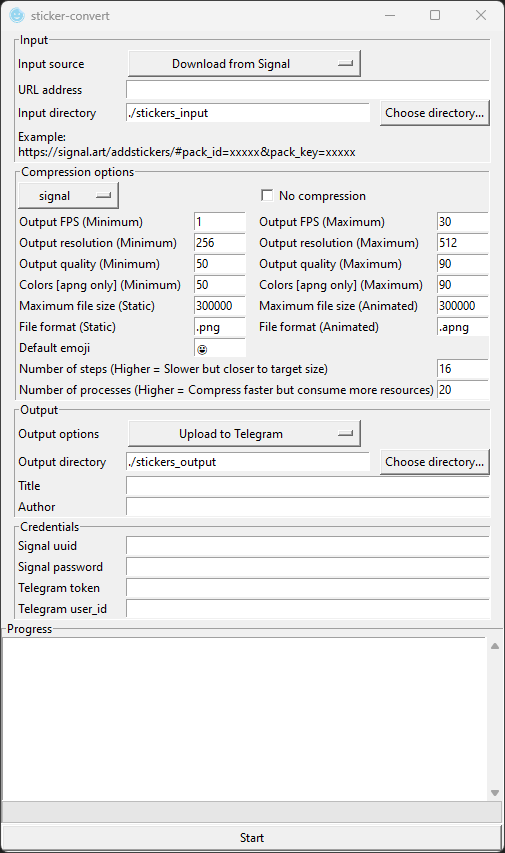
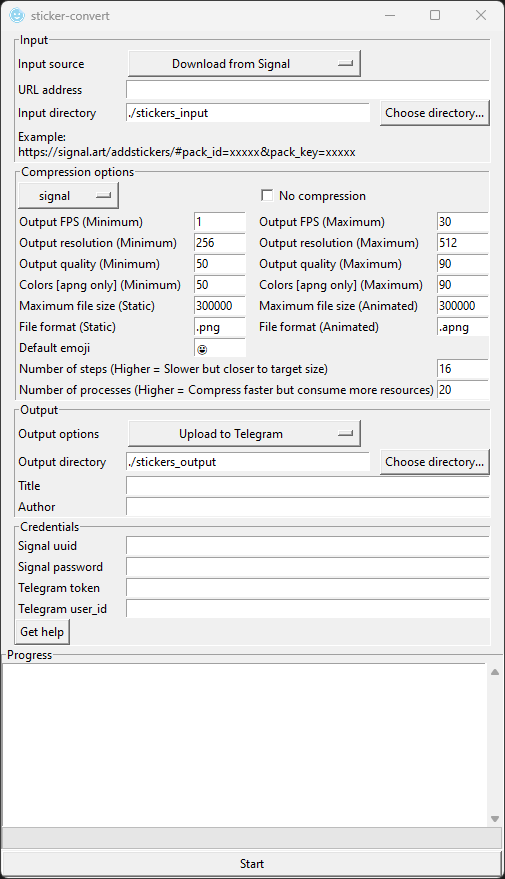
- Add Get help in GUI - Tidying up README - Changing appicon - Update screenshot

Changed region(s): [[0.0, 0.0, 1.0, 0.762], [0.2673, 0.6706, 0.9505, 0.7011], [0.4752, 0.9754, 0.505, 1.0]]

diff --git a/sticker_convert/gui.py b/sticker_convert/gui.py
@@ -6,6 +6,7 @@ import sys
 import shutil
 import multiprocessing
 from threading import Thread
+import webbrowser
 from utils.converter import StickerConvert
 from utils.format_verify import FormatVerify
 from downloaders.download_line import DownloadLine
@@ -250,6 +251,8 @@ class GUI:
         self.telegram_userid_var = StringVar(self.root)
         self.telegram_userid_entry = Entry(self.frame_cred, textvariable=self.telegram_userid_var, width=60)
 
+        self.cred_help = Button(self.frame_cred, text='Get help', command=self.callback_cred_help)
+
         self.signal_uuid_lbl.grid(column=0, row=0, sticky='w')
         self.signal_uuid_entry.grid(column=1, row=0, columnspan=2, sticky='w')
         self.signal_password_lbl.grid(column=0, row=1, sticky='w')
@@ -258,6 +261,7 @@ class GUI:
         self.telegram_token_entry.grid(column=1, row=2, columnspan=2, sticky='w')
         self.telegram_userid_lbl.grid(column=0, row=3, sticky='w')
         self.telegram_userid_entry.grid(column=1, row=3, columnspan=2, sticky='w')
+        self.cred_help.grid(column=0, row=4, columnspan=2, sticky='w')
 
         # Progress frame
         self.progress_box = scrolledtext.ScrolledText(self.frame_progress, width=60, height=10, wrap='word')
@@ -378,6 +382,9 @@ class GUI:
         
     def callback_update_progress_bar(self, *args):
         self.progress_bar['value'] += 100 / self.items
+    
+    def callback_cred_help(self, *args):
+        webbrowser.open('https://github.com/laggykiller/sticker-convert#faq')
 
     def update_progress_box(self, message):
         self.progress_box.config(state='normal')

diff --git a/README.md b/README.md
@@ -1,17 +1,28 @@
 # sticker-convert
-A python script for creating, downloading, converting+compressing and uploading stickers from multiple instant messaging applications.
+![sticker_convert/icon/appicon.png](sticker_convert/icon/appicon.png)
+- A python script for creating, downloading, converting+compressing and uploading stickers from multiple instant messaging applications.
+- With GUI and CLI that runs on Windows, MacOS and Linux
+- Currently supports Signal, Telegram, WhatsApp (Create .wastickers), Line (Download only), Kakao (Download only)
+- Supports static and animated stickers, with transparency support
 
-With GUI and CLI that runs on Windows, MacOS and Linux
+## Downloads
+- [Pre-compiled releases](https://github.com/laggykiller/sticker-convert/releases) for Windows and MacOS. (Unzip the downloaded file and run `sticker-convert`)
+- [Docker image](https://hub.docker.com/r/laggykiller/sticker-convert) for Linux version, which could be used for running CLI.
+- [Try in Google Colab without downloading](https://colab.research.google.com/github/laggykiller/sticker-convert/blob/master/sticker_convert_colab.ipynb) (Requires Google account), which runs the code on Google server and get the result from Google Drive. However, it maybe slower than running on your computer.
 
-[Pre-compiled releases available](https://github.com/laggykiller/sticker-convert/releases) for Windows and MacOS.
-
-[Docker image is available](https://hub.docker.com/r/laggykiller/sticker-convert) for Linux version, which could be used for running CLI
-
-You may [try this repo out in Google Colab](https://colab.research.google.com/github/laggykiller/sticker-convert/blob/master/sticker_convert_colab.ipynb) (Requires Google account), which you can run the code on cloud (without downloading) and get the result from Google Drive. However, it maybe slower than running on your computer.
-
-Currently supports Signal, Telegram, WhatsApp (Create .wastickers), Line (Download only), Kakao (Download only)
-
-Supports static and animated stickers, with transparency support
+## Table of contents
+- [Compatibility](#compatibility)
+- [How to use (GUI)](#how-to-use-gui)
+- [How to use (CLI)](#how-to-use-cli)
+- [How to use (Docker)](#how-to-use-docker)
+- [Running python script directly & Compiling](#running-python-script-directly--compiling)
+- [FAQ](#faq)
+    - [Getting signal uuid and password](#getting-signal-uuid-and-password)
+    - [Getting telegram bot token](#getting-telegram-bot-token)
+    - [Importing .wastickers into WhatsApp](#importing-wastickers-into-whatsapp)
+    - [I want to upload stickers that are in stickers_output that have not been uploaded yet](#i-want-to-upload-stickers-that-are-in-stickers_output-that-have-not-been-uploaded-yet)
+- [Credits](#credits)
+- [DISCLAIMER](#disclaimer)
 
 ## Compatibility
 - Signal
@@ -36,11 +47,6 @@ Supports static and animated stickers, with transparency support
 - Kakao
     - Download: Supported (e.g. https://e.kakao.com/t/xxxxx)
     - Upload: Not supported. You need to manually submit sticker pack for approval before you can use in app.
-
-## Pre-compiled releases
-Pre-compiled releases available for Windows, MacOS. Unzip the downloaded file and run `sticker-convert`
-
-If you do not trust those, you may follow 'Running python script directly' section to run the python script directly. However, you will need to install multiple dependencies.
 
 ## How to use (GUI)
 ![imgs/screenshot](imgs/screenshot.png)
@@ -162,10 +168,7 @@ Convert local files to a custom format
 
 `sticker-convert --fps-min 3 --fps-max 30 --quality-min 30 --quality-max 90 --res-min 512 --res-max 512 --steps 10 --vid-size-max 500000 --img-size-max 500000 --vid-format .apng --img-format .png`
 
-## Running python script directly & Compiling
-See [COMPILING.md](COMPILING.md)
-
-## Docker
+## How to use (Docker)
 
 Running
 ```
@@ -181,6 +184,9 @@ Building
 ```
 docker build . -t sticker-convert
 ```
+
+## Running python script directly & Compiling
+See [COMPILING.md](COMPILING.md)
 
 ## FAQ
 
